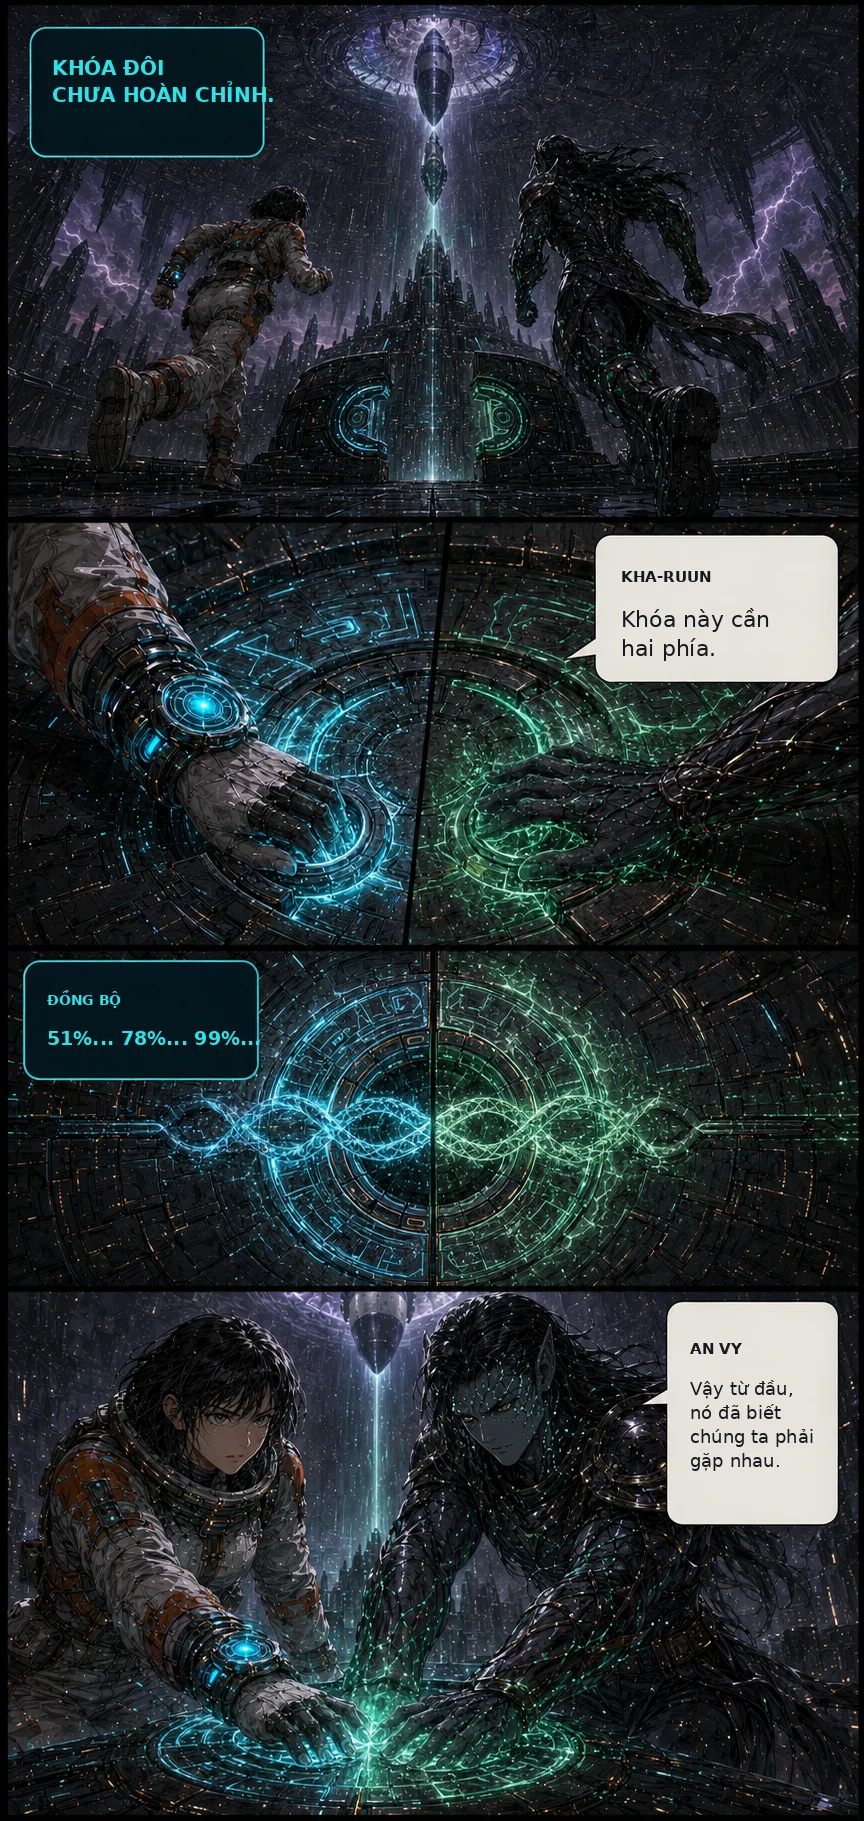
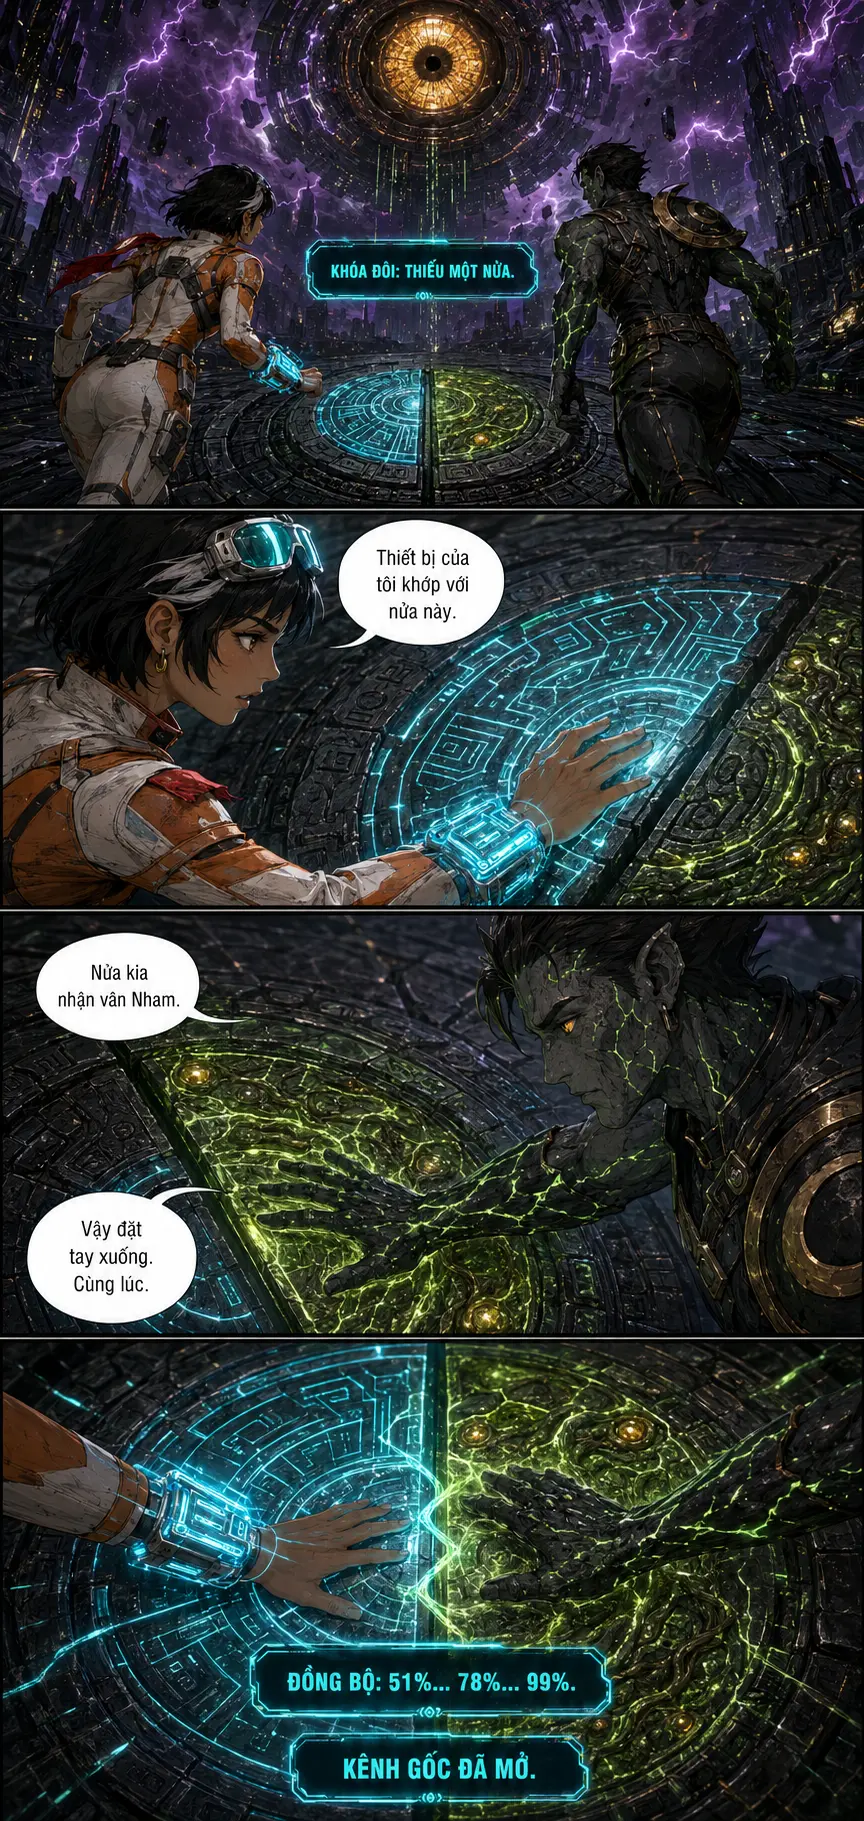
Làm tự nhiên thoại trang 9-10 Vết Thủng 2237

diff --git a/vet-thung-2237/story-data.js b/vet-thung-2237/story-data.js
@@ -11,8 +11,8 @@ const STORY = {
     {number: 6, image: 'assets/pages/page-06.webp?v=dialogue-20260811-p56', title: 'Lệnh xuyên vỏ', alt: 'Chỉ huy Bách chuẩn bị đầu đạn xuyên vỏ sau khi mất tín hiệu An Vy'},
     {number: 7, image: 'assets/pages/page-07.webp?v=dialogue-20260811-p78', title: 'Ký ức trong đá', alt: 'An Vy và Kha-Ruun thấy ký ức tổ tiên tộc Nham phóng Mắt Rơi khỏi Trái Đất'},
     {number: 8, image: 'assets/pages/page-08.webp?v=dialogue-20260811-p78', title: 'Hai phía khai hỏa', alt: 'An Vy và Kha-Ruun phát hiện đầu đạn bề mặt cùng pháo địa nhiệt bị mệnh lệnh giả điều khiển'},
-    {number: 9, image: 'assets/pages/page-09.webp', title: 'Mắt mở', alt: 'Mắt Rơi tách vỏ thành một mống mắt cơ khí khổng lồ'},
-    {number: 10, image: 'assets/pages/page-10.webp', title: 'Khóa đôi', alt: 'An Vy và Kha-Ruun cùng kích hoạt hai nửa khóa của Mắt Rơi'},
+    {number: 9, image: 'assets/pages/page-09.webp?v=dialogue-20260811-p910', title: 'Mắt mở', alt: 'An Vy và Kha-Ruun thấy Mắt Rơi hút hai luồng nhiệt rồi mở thành một mống mắt cơ khí'},
+    {number: 10, image: 'assets/pages/page-10.webp?v=dialogue-20260811-p910', title: 'Khóa đôi', alt: 'Thiết bị cổ tay An Vy và vân Nham của Kha-Ruun cùng kích hoạt hai nửa khóa'},
     {number: 11, image: 'assets/pages/page-11.webp', title: 'Một giây ngừng bắn', alt: 'Chỉ huy Bách hủy đầu đạn khi An Vy phát bằng chứng giả mạo'},
     {number: 12, image: 'assets/pages/page-12.webp', title: 'Những vết thủng khác', alt: 'Bản đồ Trái Đất hiện chín điểm Vết Thủng sau khi Mắt Rơi bị khóa'}
   ]

diff --git a/vet-thung-2237/index.html b/vet-thung-2237/index.html
@@ -75,7 +75,7 @@
     </nav>
   </section>
 
-  <script src="story-data.js?v=dialogue-20260811-p78"></script>
+  <script src="story-data.js?v=dialogue-20260811-p910"></script>
   <script src="app.js"></script>
 </body>
 </html>

diff --git a/vet-thung-2237/docs/qa-log.md b/vet-thung-2237/docs/qa-log.md
@@ -60,7 +60,15 @@
 - Lần dựng đầu trang 7 thiếu câu hỏi thứ hai của An Vy; đã loại bản đó, dựng lại và đối chiếu đủ sáu mục chữ trước khi xuất bản.
 - Đã kiểm tra toàn bộ dấu tiếng Việt, chữ không bị cắt, không có nhãn tên người nói và không có hộp thoại kiểu giao diện.
 
+## Audit thoại tự nhiên trang 9–10 — 11/08/2026
+
+- Đã thay mới trang 9 “Mắt mở” và trang 10 “Khóa đôi” bằng ảnh gen hoàn chỉnh cùng bong bóng thoại tiếng Việt.
+- Trang 9 biến lời giải thích về Mắt Rơi thành phát hiện tức thời: An Vy nhìn thấy nó hút nhiệt từ hai luồng bắn, Kha-Ruun nhận ra họ không đánh thức mà đang ấp nó.
+- Trang 10 để hai nhân vật tự thử hai nửa khóa bằng thiết bị cổ tay và vân Nham; thao tác đồng thời mở kênh bằng chứng gốc, nối trực tiếp sang trang 11.
+- Đã giữ đúng một Mắt Rơi mở thành mống mắt hổ phách, thiết bị cyan trên cổ tay phải An Vy, hình người cao gầy cùng giáp vai phải của Kha-Ruun.
+- Đã đối chiếu đủ năm mục chữ trang 9 và sáu mục chữ trang 10; không có nhãn tên, chữ thừa, chữ bị cắt hoặc hộp thoại kiểu giao diện.
+
 ## Trạng thái
 
 - Chương 1 hoàn tất: 12/12 trang.
-- Lượt audit tiếp theo tiếp tục làm mềm thoại và thay trang 9–10 theo chuẩn bong bóng thoại mới.
+- Lượt audit tiếp theo tiếp tục làm mềm thoại và thay trang 11–12 theo chuẩn bong bóng thoại mới.

diff --git a/vet-thung-2237/chapters/chuong-01.md b/vet-thung-2237/chapters/chuong-01.md
@@ -68,17 +68,20 @@
 
 ### Trang 9 — Mắt mở
 
-- Hệ thống: “Nhiệt chiến đạt ngưỡng.”
-- Mắt Rơi: “XUNG ĐỘT ĐẠT NGƯỠNG. QUÁ TRÌNH NỞ BẮT ĐẦU.”
-- An Vy: “Nó không rơi xuống để xâm lược.”
-- Kha-Ruun: “Nó rơi xuống để được sinh ra.”
+- Hệ thống: “Nhiệt xung đột: đủ.”
+- Mắt Rơi: “Vỏ ươm: mở.”
+- An Vy: “Khoan... nó đang hút nhiệt từ hai luồng bắn!”
+- Kha-Ruun: “Chúng ta không đánh thức nó.”
+- An Vy: “Chúng ta đang ấp nó.”
 
 ### Trang 10 — Khóa đôi
 
-- Hệ thống: “Khóa đôi chưa hoàn chỉnh.”
-- Kha-Ruun: “Khóa này cần hai phía.”
-- Hệ thống: “Đồng bộ. 51%... 78%... 99%...”
-- An Vy: “Vậy từ đầu, nó đã biết chúng ta phải gặp nhau.”
+- Hệ thống: “Khóa đôi: thiếu một nửa.”
+- An Vy: “Thiết bị của tôi khớp với nửa này.”
+- Kha-Ruun: “Nửa kia nhận vân Nham.”
+- An Vy: “Vậy đặt tay xuống. Cùng lúc.”
+- Hệ thống: “Đồng bộ: 51%... 78%... 99%.”
+- Hệ thống: “Kênh gốc đã mở.”
 
 ### Trang 11 — Một giây ngừng bắn
 
